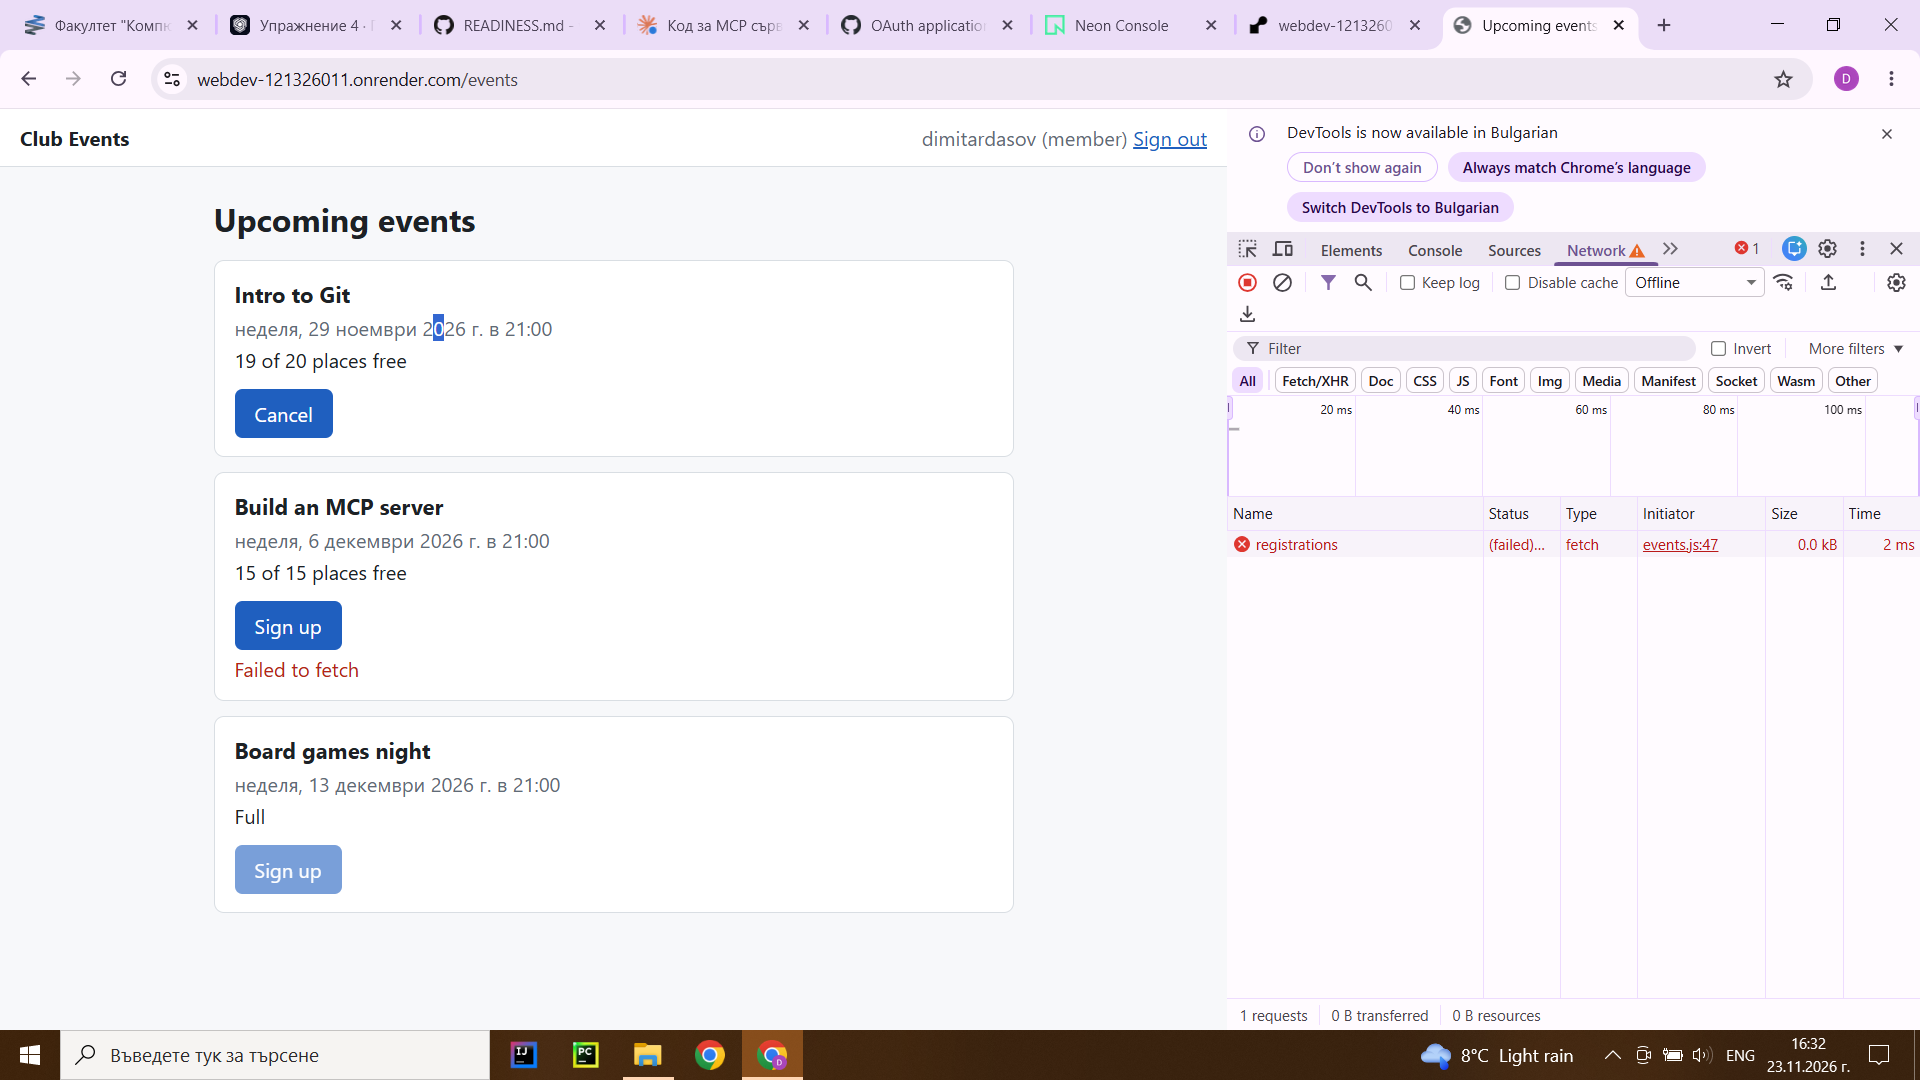
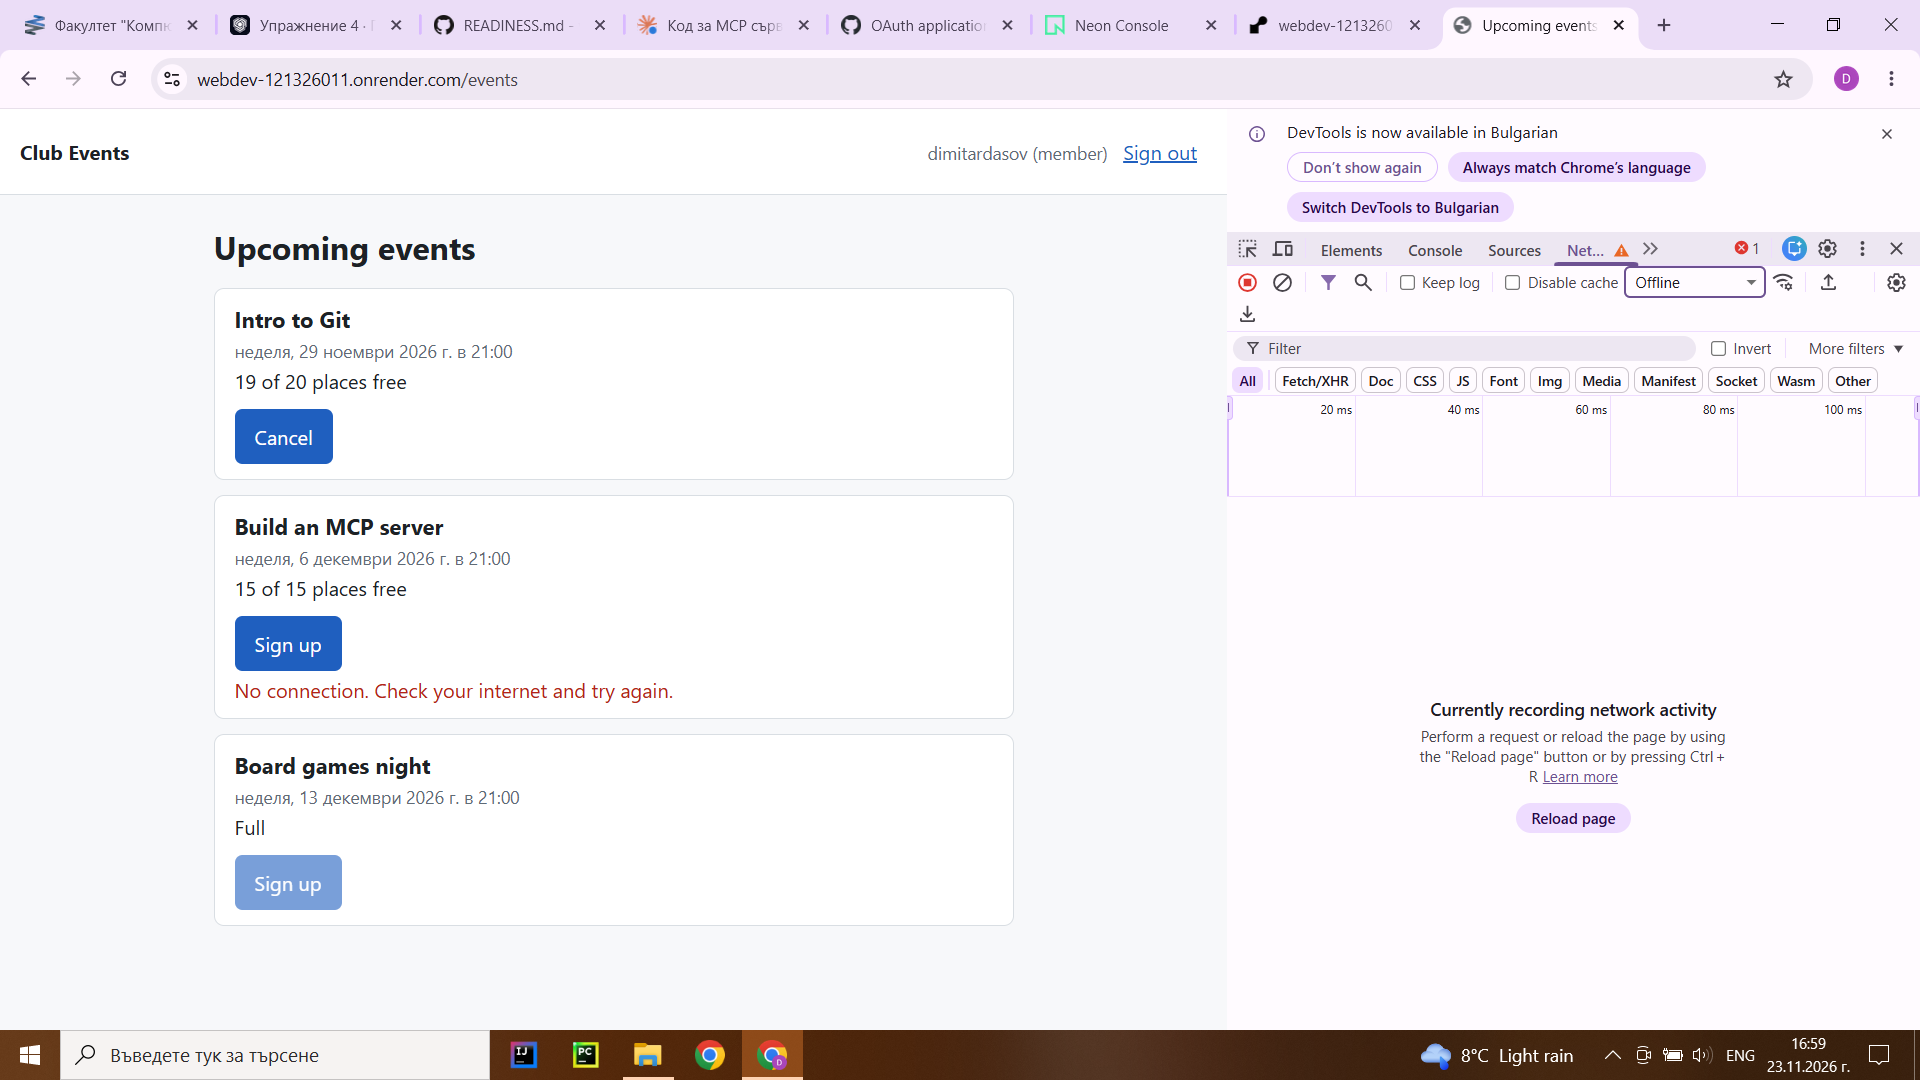
UI checklist: five items fixed and checked live

diff --git a/docs/UI.md b/docs/UI.md
@@ -11,12 +11,12 @@ the text is readable, and nothing jumps around while it loads.
 
 ## Layout and typography
 
-- [ ] **One spacing scale and one type scale.** Sizes come from a small set of design tokens, not from numbers typed where they were needed.
-    - how I checked: public/style.css keeps the colours as tokens on :root, but spacings and font sizes are numbers typed in each rule. Not done; in READINESS.md.
+- [x] **One spacing scale and one type scale.** Sizes come from a small set of design tokens, not from numbers typed where they were needed.
+        - how I checked: public/style.css has --space-1 … --space-5 and --text-sm … --text-xl on :root and the rules use them instead of typed numbers.
 - [x] **Responsive at 380, 768 and 1280 pixels wide.** No horizontal scrollbar, no text running under another element.
     - how I checked: Chrome DevTools device mode on the live /events at 380, 768 and 1280: no horizontal scroll, the cards fit, the name and Sign out stay on one line.
-- [ ] **Nothing jumps while the page loads.** Images and cards reserve their space before their content arrives.
-    - how I checked: on Slow 4G "Loading events…" is replaced by the list, and the cards push the page down when they arrive; nothing reserves their space. Not done; in READINESS.md.
+- [x] **Nothing jumps while the page loads.** Images and cards reserve their space before their content arrives.
+        - how I checked: the list area reserves its height while "Loading events…" shows; on Slow 4G the cards appear without pushing the page down.
 
 ## The four states, on every screen
 
@@ -24,10 +24,10 @@ A screen that only handles "it worked" is a screen that lies to the user on the 
 
 - [x] **Loading.** Something tells the user the app is working, within about 100 ms.
     - how I checked: "Loading events…" is in the HTML of /events, so it shows with the page; on Slow 4G with cache disabled it stayed under a second before the list.
-- [ ] **Empty.** The screen says what this list is for and what to do next, instead of showing nothing.
-    - how I checked: the code shows "There are no upcoming events yet.", but I did not see it live because the database has upcoming events, and it does not say what to do next.
-- [ ] **Error.** A sentence a person can read. Never a raw JSON body, never a stack trace, never just "Error".
-    - how I checked: offline in DevTools, Sign up showed "Failed to fetch", the browser's text, not a sentence for a person; with the database down, sign-in showed "Something went wrong. Try again.". Not done; in READINESS.md.
+- [x] **Empty.** The screen says what this list is for and what to do next, instead of showing nothing.
+      - how I checked: the empty state now reads "There are no upcoming events yet. Check back soon: organizers add new events here." (public/events.js); not seen live, because the database has upcoming events.
+- [x] **Error.** A sentence a person can read. Never a raw JSON body, never a stack trace, never just "Error".
+        - how I checked: offline in DevTools on the live site, Sign up shows "No connection. Check your internet and try again." and nothing changes.
 - [x] **Success.** The user can see that what they did took effect, without reloading the page to find out.
     - how I checked: on the live site Sign up on "Build an MCP server" changed it to 14 of 15 and the button to Cancel without a reload; Cancel brought back 15 of 15.
 
@@ -43,8 +43,8 @@ A screen that only handles "it worked" is a screen that lies to the user on the 
     - how I checked: views/login.html has a visible label for="email" and for="password" above each field.
 - [x] **The page has a correct `<title>` and `lang`.**
     - how I checked: both pages have lang="en"; the browser tabs read "Sign in · Club Events" and "Upcoming events · Club Events".
-- [ ] **Touch targets are at least 44 pixels.**
-    - how I checked: DevTools inspect: the Sign up button is 85.7 × 39.2 and the Sign out link 59.09 × 21.6, both under 44 pixels high. Not done; in READINESS.md.
+- [x] **Touch targets are at least 44 pixels.**
+        - how I checked: DevTools inspect on the live site: Sign up 85.7 × 44, Sign out 75.09 × 44.
 
 ## The model feature
 

diff --git a/READINESS.md b/READINESS.md
@@ -37,15 +37,11 @@
 2. No rate limit on /api/login, so passwords can be guessed without any slowdown.
 3. Two screens from SPEC.md are not built: event details and New event. An organizer can create an event only through the API.
 4. The server does not handle SIGTERM: in Docker, Ctrl+C did not stop it, so on every deploy Render kills it after a timeout instead of closing database connections cleanly.
-5. Error texts for users are generic or technical: "Something went wrong. Try again." when the database is down, "Failed to fetch" when offline.
+5. The error text when the database is down is generic: "Something went wrong. Try again." does not tell the user the service is temporarily unavailable.
 6. The seed events are dated relative to the seeding day, so they turn into past events; "Build an MCP server" had already started when I tested sign-up.
 7. Coverage outside the services is uneven: routes/auth.js 78% lines, routes/suggestions.js 67%, db/migrate.js 69%, data/health.js 50%, auth/github.js 65% branches.
 8. Housekeeping: src/db/schema.sql is no longer used; the startup log says "In a codespace, open the forwarded port" in production too.
 9. The Neon password appeared in screenshots during setup; it was reset each time.
-10. Touch targets are below 44 pixels high: the Sign up button is 85.7 × 39.2 and the Sign out link 59.09 × 21.6 (DevTools inspect on the live site).
-11. When offline, Sign up shows the browser's "Failed to fetch" instead of a sentence for a person.
-12. The event cards push the page down when the list arrives; nothing reserves their space while "Loading events…" shows.
-13. Spacings and font sizes are typed numbers in public/style.css; only the colours are tokens.
 
 ## 8. Model feature
 - POST /api/events/suggest: an organizer's announcement text goes to Gemini (src/model/gemini.js) with a 5-second timeout; on a timeout, 429, network error, missing key or invalid JSON the organizer gets empty fields and "Suggestions are unavailable, fill in the form yourself". The reply is re-checked: past dates, places outside 1-500 and titles over 120 characters are dropped.
